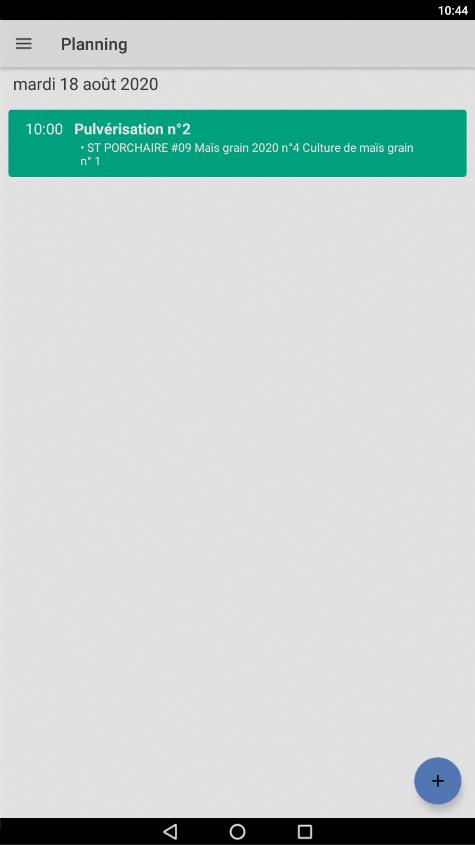
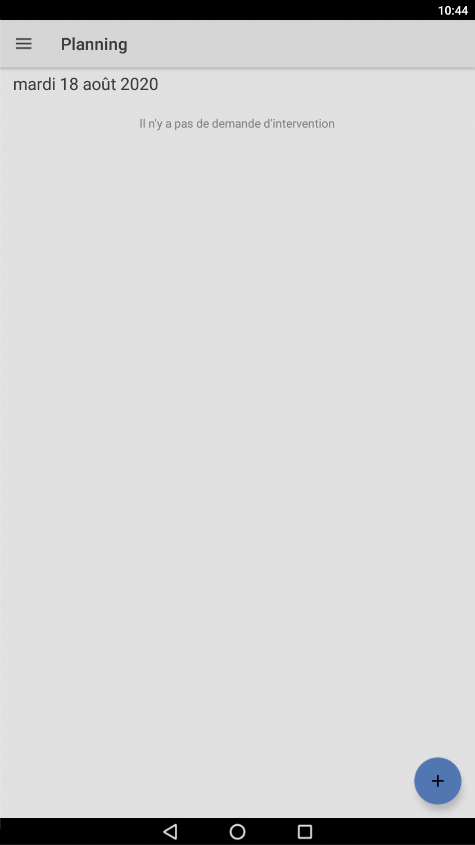
Intervention pulvé planifiée avec "Zero" (WIP)

Changed region(s): [[0.0, 0.1231, 1.0, 0.2154]]

diff --git a/content/fr/chapitre9.html b/content/fr/chapitre9.html
@@ -1618,7 +1618,7 @@
             "Zero" permet de saisir, en mode déconnecté, avec ou sans enregistrement des temps de travaux détaillés, toutes les interventions disponibles dans Ekylibre.
          </div>
       </div>
-      <p class="texte aerateur-haut">Le processus suivant vous guide pour enregistrer une intervention de pulvérisation avec l'application mobile "Zero".</p>
+      <p class="texte aerateur-haut">Le processus suivant vous guide pour enregistrer une nouvelle intervention de pulvérisation avec l'application mobile "Zero".</p>
 	  <p class="texte">Notez que les captures d'écran utilisées pour illustrer les étapes peuvent sensiblement différer de l'affichage obtenu avec votre smartphone ou votre tablette &#40;marques et modèles différents&#41;.</p>
 	  <div class="colonne-left">
       <div class="floating-box-left process-mob-left">
@@ -1626,7 +1626,7 @@
       </div>
       <div class="process-txt-left">
          <span class="titre-advice">Identifiez-vous et connectez-vous</span>
-         <p>Lancez l'application, puis saisissez l'adresse web de la ferme, votre adresse email et votre mot de passe &#40;une fois pour les mémoriser dans la gestion des comptes de "Zero"&#41;.</p>
+         <p>Lancez l'application, puis saisissez l'adresse web de la ferme, votre adresse email et votre mot de passe &#40;une seule fois pour les mémoriser dans la gestion des comptes&#41;.</p>
          <p class="process-img-left">
             <img src="../images/chapitre9/zero1.png" class="contour-img" alt="Liste des activités" />
          </p>
@@ -1775,11 +1775,201 @@
             Une fois que les données sont synchronisées avec la ferme, et dans la vue "Pavés" des interventions, la nouvelle pulvérisation est affichée, assortie d'une icône<img src="../images/chapitre9/mobile.svg" alt="Mobile" height="20" class="align-icone icone-marge-gauche icone-marge-droite">représentant un smartphone.
          </p>
          <p class="max-img-process">
-            <img src="../images/chapitre9/inter-mobile.png" class="contour-img" alt="Liste des interventions" data-action="zoom" />
+            <img src="../images/chapitre9/inter-mobile1.png" class="contour-img" alt="Liste des interventions" data-action="zoom" />
          </p>
-		 <!--
 		 <p>Notez que si l'intervention a été planifiée, le pavé est alors automatiquement déplacé dans la colonne "En cours".</p>
-         -->
+      </div>
+	  <p class="texte aerateur-haut">Le processus suivant vous guide pour enregistrer une intervention planifiée avec l'application mobile "Zero".</p>
+	  <div class="colonne-left">
+      <div class="floating-box-left process-mob-left">
+         <img src="../images/commun/step1.svg" alt="1" width="52" />
+      </div>
+      <div class="process-txt-left">
+         <span class="titre-advice">Identifiez-vous et connectez-vous</span>
+         <p>Lancez l'application, puis saisissez l'adresse web de la ferme, votre adresse email et votre mot de passe &#40;une seule fois pour les mémoriser dans la gestion des comptes&#41;.</p>
+         <p class="process-img-left">
+            <img src="../images/chapitre9/zero-plan1.png" class="contour-img" alt="Liste des activités" />
+         </p>
+      </div>
+	  </div>
+	  <div class="colonne-right">
+      <div class="floating-box-right process-mob-right">
+         <img src="../images/commun/step2.svg" alt="2" width="52" />
+      </div>
+      <div class="process-txt-right">
+         <span class="titre-advice-right">Affichez le planning</span>
+         <p class="process-desc-right">Une fois synchronisée avec la ferme, "Zero" liste automatiquement l'ensemble des interventions planifiées pour l'équipier identifié à l'étape n<sup>o</sup>&nbsp;1 de cette procédure.</p>
+         <p class="process-img-right">
+            <img src="../images/chapitre9/zero-plan2.png" class="contour-img" alt="Sélection campagne" />
+         </p>
+      </div>
+	  </div>
+	  <p style="clear: both"></p>
+	  <div class="colonne-left">
+      <div class="floating-box-left process-mob-left">
+         <img src="../images/commun/step3.svg" alt="3" width="52" />
+      </div>
+      <div class="process-txt-left">
+         <span class="titre-advice">Affichez les paramètres</span>
+		 <p>Ouvrez le menu principal<img src="../images/chapitre9/menu.svg" alt="Menu" height="18" class="icone-marge-gauche icone-marge-droite" style="vertical-align: -1px">en haut à gauche de l'écran et appuyez sur le bouton "Paramètres" pour accéder aux réglages de l'application mobile.</p>
+         <p class="process-img-left">
+            <img src="../images/chapitre9/zero-plan3.png" class="contour-img" alt="Sélection intervention" />
+         </p>
+      </div>
+	  </div>
+	  <div class="colonne-right">
+      <div class="floating-box-right process-mob-right">
+         <img src="../images/commun/step4.svg" alt="4" width="52" />
+      </div>
+      <div class="process-txt-right">
+         <span class="titre-advice-right">Activez ou non la localisation GPS</span>
+         <p>En option et dans les "Paramètres généraux", activez ou non les données de localisation GPS pour une traçabilité avancée des trajets effectués durant l'intervention.</p>
+         <p class="process-img-right">
+            <img src="../images/chapitre9/zero-plan4.png" class="contour-img" alt="Activation GPS" />
+         </p>
+      </div>
+	  </div>
+      <p style="clear: both"></p>
+	  <div class="colonne-left">
+      <div class="floating-box-left process-mob-left">
+         <img src="../images/commun/step5.svg" alt="5" width="52" />
+      </div>
+      <div class="process-txt-left">
+         <span class="titre-advice">Validez la localisation GPS</span>
+         <p>Refusez ou autorisez l'application à accéder à la position de votre appareil pour bénéficier ou non du système de localisation GPS proposé par "Zero" &#40;une seule fois&#41;.</p>
+         <p class="process-img-left">
+            <img src="../images/chapitre9/zero-plan5.png" class="contour-img" alt="Sélection intervention" />
+		 </p>
+      </div>
+	  </div>
+	  <div class="colonne-right">
+      <div class="floating-box-right process-mob-right">
+         <img src="../images/commun/step6.svg" alt="6" width="52" />
+      </div>
+      <div class="process-txt-right">
+         <span class="titre-advice-right">Sélectionnez l'intervention</span>
+         <p class="process-desc-right">Cliquez sur le bouton de l'intervention afin de visualiser les élements planifiés de la pulvérisation &#40;parcelle/culture, produits phytosanitaires, équipements&#41;.</p>
+         <p class="process-img-right">
+            <img src="../images/chapitre9/zero-plan6.png" class="contour-img" alt="Sélection intervention" />
+         </p>
+      </div>
+	  </div>
+	  <p style="clear: both"></p>
+	  <div class="colonne-left">
+      <div class="floating-box-left process-mob-left">
+         <img src="../images/commun/step7.svg" alt="7" width="52" />
+      </div>
+      <div class="process-txt-left">
+         <span class="titre-advice">Enregistrez une préparation</span>
+         <p>Si une préparation est nécessaire pour initier l'intervention &#40;manutention, mélange&#41;, appuyez sur le bouton correspondant pour comptabiliser ce temps supplémentaire.</p>
+         <p class="process-img-left">
+            <img src="../images/chapitre9/zero-plan7.png" class="contour-img" alt="Sélection cible" />
+		 </p>
+      </div>
+	  </div>
+	  <div class="colonne-right">
+      <div class="floating-box-right process-mob-right">
+         <img src="../images/commun/step8.svg" alt="8" width="52" />
+      </div>
+      <div class="process-txt-right">
+         <span class="titre-advice-right">Enregistrez un déplacement</span>
+         <p class="process-desc-right">Si un déplacement est nécessaire pour rejoindre la parcelle, appuyez sur le bouton correspondant pour comptabiliser ce temps supplémentaire.</p>
+         <p class="process-img-right">
+            <img src="../images/chapitre9/zero-plan8.png" class="contour-img" alt="Sélection phyto" />
+         </p>
+      </div>
+	  </div>
+	  <p style="clear: both"></p>
+	  <div class="colonne-left">
+      <div class="floating-box-left process-mob-left">
+         <img src="../images/commun/step9.svg" alt="9" width="52" />
+      </div>
+      <div class="process-txt-left">
+         <span class="titre-advice">Enregistrez l'intervention</span>
+         <p>Appuyez sur le bouton correspondant au démarrage de l'intervention sur la parcelle. Notez que la durée totale de l'intervention est automatiquement actualisée.</p>
+         <p class="process-img-left">
+            <img src="../images/chapitre9/zero-plan9.png" class="contour-img" alt="Fiche produit" />
+		 </p>
+      </div>
+	  </div>
+	  <div class="colonne-right">
+      <div class="floating-box-right process-mob-right">
+         <img src="../images/commun/step10.svg" alt="10" width="52" />
+      </div>
+      <div class="process-txt-right">
+         <span class="titre-advice-right">Suspendez l'enregistrement</span>
+         <p class="process-desc-right">Appuyez sur la disquette<img src="../images/chapitre9/floppy-o.svg" alt="Disquette" height="18" class="icone-marge-gauche icone-marge-droite" style="vertical-align: -1px">en haut à droite de l'écran si la saisie doit être interrompue temporairement ou fractionnée de manière significative, puis appuyez sur "Pause".</p>
+         <p class="process-img-right">
+            <img src="../images/chapitre9/zero-plan10.png" class="contour-img" alt="Validation intervention" />
+         </p>
+      </div>
+	  </div>
+	  <p style="clear: both"></p>
+	  <div class="process-txt">
+         <p>
+            Si la saisie de l'intervention a été mise en pause, dans la vue "Pavés" des interventions et après synchronisation des données, la nouvelle pulvérisation est déplacée dans la colonne "En cours", assortie d'une icône<img src="../images/chapitre9/mobile.svg" alt="Mobile" height="20" class="align-icone icone-marge-gauche icone-marge-droite">représentant un smartphone.
+         </p>
+         <p class="max-img-process">
+            <img src="../images/chapitre9/inter-mobile2.png" class="contour-img" alt="Liste des interventions" data-action="zoom" />
+         </p>
+      </div>
+	  <div class="colonne-left">
+      <div class="floating-box-left process-mob-left">
+         <img src="../images/commun/step11.svg" alt="11" width="52" />
+      </div>
+      <div class="process-txt-left">
+          <span class="titre-advice">Reprenez la saisie</span>
+         <p>Une fois la pause terminée, cliquez sur le bouton de l'intervention planifiée afin de reprendre et finaliser l'enregistrement des temps d'intervention.</p>
+         <p class="process-img-left">
+            <img src="../images/chapitre9/zero-plan11.png" class="contour-img" alt="Fiche produit" />
+		 </p>
+      </div>
+	  </div>
+	  <div class="colonne-right">
+      <div class="floating-box-right process-mob-right">
+         <img src="../images/commun/step12.svg" alt="12" width="52" />
+      </div>
+      <div class="process-txt-right">
+         <span class="titre-advice-right">Enregistrez l'intervention</span>
+         <p class="process-desc-right">Une fois la saisie de l'intervention terminée, appuyez sur la disquette<img src="../images/chapitre9/floppy-o.svg" alt="Disquette" height="18" class="icone-marge-gauche icone-marge-droite" style="vertical-align: -1px">en haut à droite de l'écran et appuyez sur "Terminer" pour valider l'opération.</p>
+         <p class="process-img-right">
+            <img src="../images/chapitre9/zero-plan12.png" class="contour-img" alt="Validation intervention" />
+         </p>
+      </div>
+	  </div>
+	  <p style="clear: both"></p>
+	  <div class="colonne-left">
+      <div class="floating-box-left process-mob-left">
+         <img src="../images/commun/step13.svg" alt="13" width="52" />
+      </div>
+      <div class="process-txt-left">
+          <span class="titre-advice">Renseignez le compteur horaire</span>
+         <p>En option, saisissez le temps de travail du tracteur utilisé durant l'intervention, puis cliquez sur le bouton "Terminer" pour valider l'opération.</p>
+         <p class="process-img-left">
+            <img src="../images/chapitre9/zero-plan13.png" class="contour-img" alt="Fiche produit" />
+		 </p>
+      </div>
+	  </div>
+	  <div class="colonne-right">
+      <div class="floating-box-right process-mob-right">
+         <img src="../images/commun/step14.svg" alt="14" width="52" />
+      </div>
+      <div class="process-txt-right">
+         <span class="titre-advice-right">Synchronisez l'intervention</span>
+         <p class="process-desc-right">Ouvrez le menu principal<img src="../images/chapitre9/menu.svg" alt="Menu" height="18" class="icone-marge-gauche icone-marge-droite" style="vertical-align: -1px">en haut à gauche de l'écran et appuyez sur le bouton "Synchroniser" pour transmettre les données à la ferme dès qu'une connexion est active.</p>
+         <p class="process-img-right">
+            <img src="../images/chapitre9/zero-plan14.png" class="contour-img" alt="Validation intervention" />
+         </p>
+      </div>
+	  </div>
+	  <p style="clear: both"></p>
+      <div class="process-txt">
+         <p>
+            Une fois que les données sont synchronisées avec la ferme, et dans la vue "Pavés" des interventions, la nouvelle pulvérisation est déplacée dans la colonne "Terminées", assortie d'une icône<img src="../images/chapitre9/mobile.svg" alt="Mobile" height="20" class="align-icone icone-marge-gauche icone-marge-droite">représentant un smartphone.
+         </p>
+         <p class="max-img-process">
+            <img src="../images/chapitre9/inter-mobile3.png" class="contour-img" alt="Liste des interventions" data-action="zoom" />
+         </p>
       </div>
       <h6>Guide de prise en main • Production • Suivi des activités</h6>
       <p align="center" class="texte aerateur procedure">8 – Procédure pour suivre les activités
